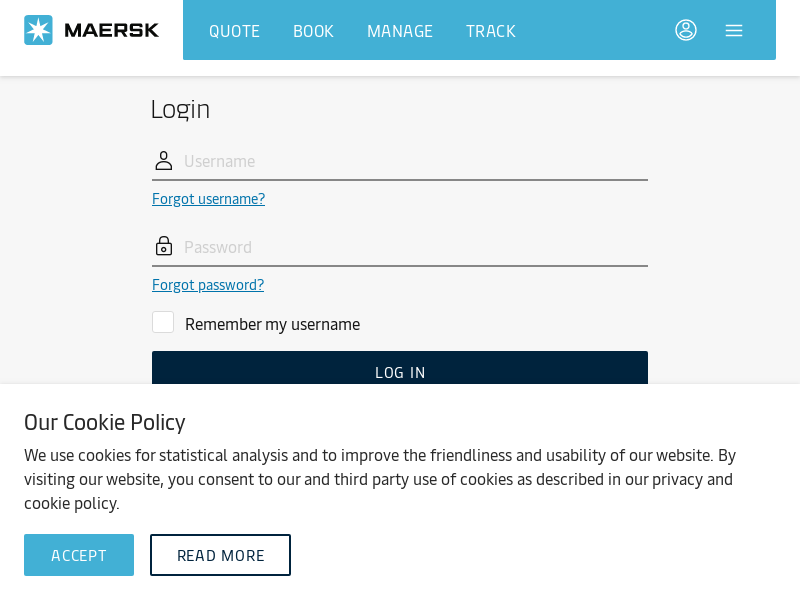
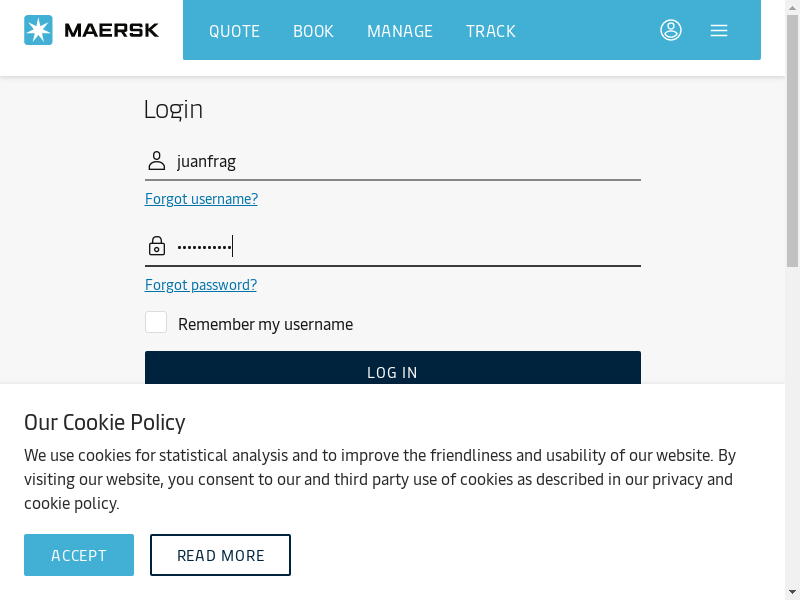
se avanza con el logueo

diff --git a/index.js b/index.js
@@ -1,19 +1,18 @@
 const puppeteer = require('puppeteer');
 const CREDS     = require('./creds');
+const fs        = require('fs').promises;
+const { PendingXHR } = require('pending-xhr-puppeteer');
+const textRegex = /(javascript|html|XHR)/;
 
 async function run() {
-    const browser = await puppeteer.launch({args: ['--no-sandbox', '--disable-setuid-sandbox']});
-    //const browser = await puppeteer.launch();
+    const browser = await puppeteer.launch({headless: false,args: ['--no-sandbox', '--disable-setuid-sandbox'],width:1024,height:800});
     const page = await browser.newPage();
     await page.setDefaultNavigationTimeout(0); 
-    await page.goto('https://www.maersk.com/portaluser/login', {waitUntil: 'networkidle0', timeout: 0});
-    await page.screenshot({ path: 'screenshots/github.png' });
+
+    await page.goto('https://www.maersk.com/instantPrice/', {waitUntil: 'networkidle0', timeout: 0});
 
     const USERNAME_SELECTOR = '#usernameInput';
     const PASSWORD_SELECTOR = '#passwordInput';
-    
-    
-
 
     await page.click(USERNAME_SELECTOR);
     await page.keyboard.type(CREDS.username);
@@ -22,30 +21,34 @@ async function run() {
     await page.keyboard.type(CREDS.password);
     console.log(CREDS.username);
     console.log(CREDS.password);
-   // const [button] = await page.$x("//button[contains(., 'Log in')]");
-  /*  await page.waitForSelector('button[class="button button--primary button--block"]');
-    await page.click('button[class="button button--primary button--block"]');
-*/
+    await page.screenshot({ path: 'screenshots/github.png' });
     const BUTTON_SELECTOR = '#login-form > fieldset > div:nth-child(4) > button';
-
     await page.click(BUTTON_SELECTOR);
-    await page.screenshot({ path: 'screenshots/github3.png' });
-    /*const query = "Log in";
-    page.evaluate( query => {
-        const elements = [...document.querySelectorAll('button.button button--primary button--block')];
+    const response = await page.waitForNavigation();
+    
+    page.on('response', (response) => {
+        const headers = response.headers();
 
-        // Either use .find or .filter, comment one of these
-        // find element with find
-        const targetElement = elements.find(e => e.innerText.includes(query));
-
-        // OR, find element with filter
-        // const targetElement = elements.filter(e => e.innerText.includes(query))[0];
-
-        // make sure the element exists, and only then click it
-        targetElement && targetElement.click();
-    }, query);*/
-
-    await page.waitForNavigation();
+        // example test: check if content-type contains javascript or html
+        const contentType = headers['content-type'];
+        if (textRegex.test(contentType)) {
+            console.log(response.url());
+        }
+    });
+    await page.goto(`...`);
+    await page.close();
+    
+    /*await fs.writeFile('./header.json', JSON.stringify(headers, null, 2), function(err) {
+        if (err) throw err;
+        console.log('completed write of headers');
+    });*/
+    
+    // SAVE COOKIES
+    const cookies = await page.cookies();
+    await fs.writeFile('./cookies.json', JSON.stringify(cookies, null, 2), function(err) {
+        if (err) throw err;
+        console.log('completed write of cookies');
+    });
     await page.screenshot({ path: 'screenshots/github2.png' });
     browser.close();
 }
